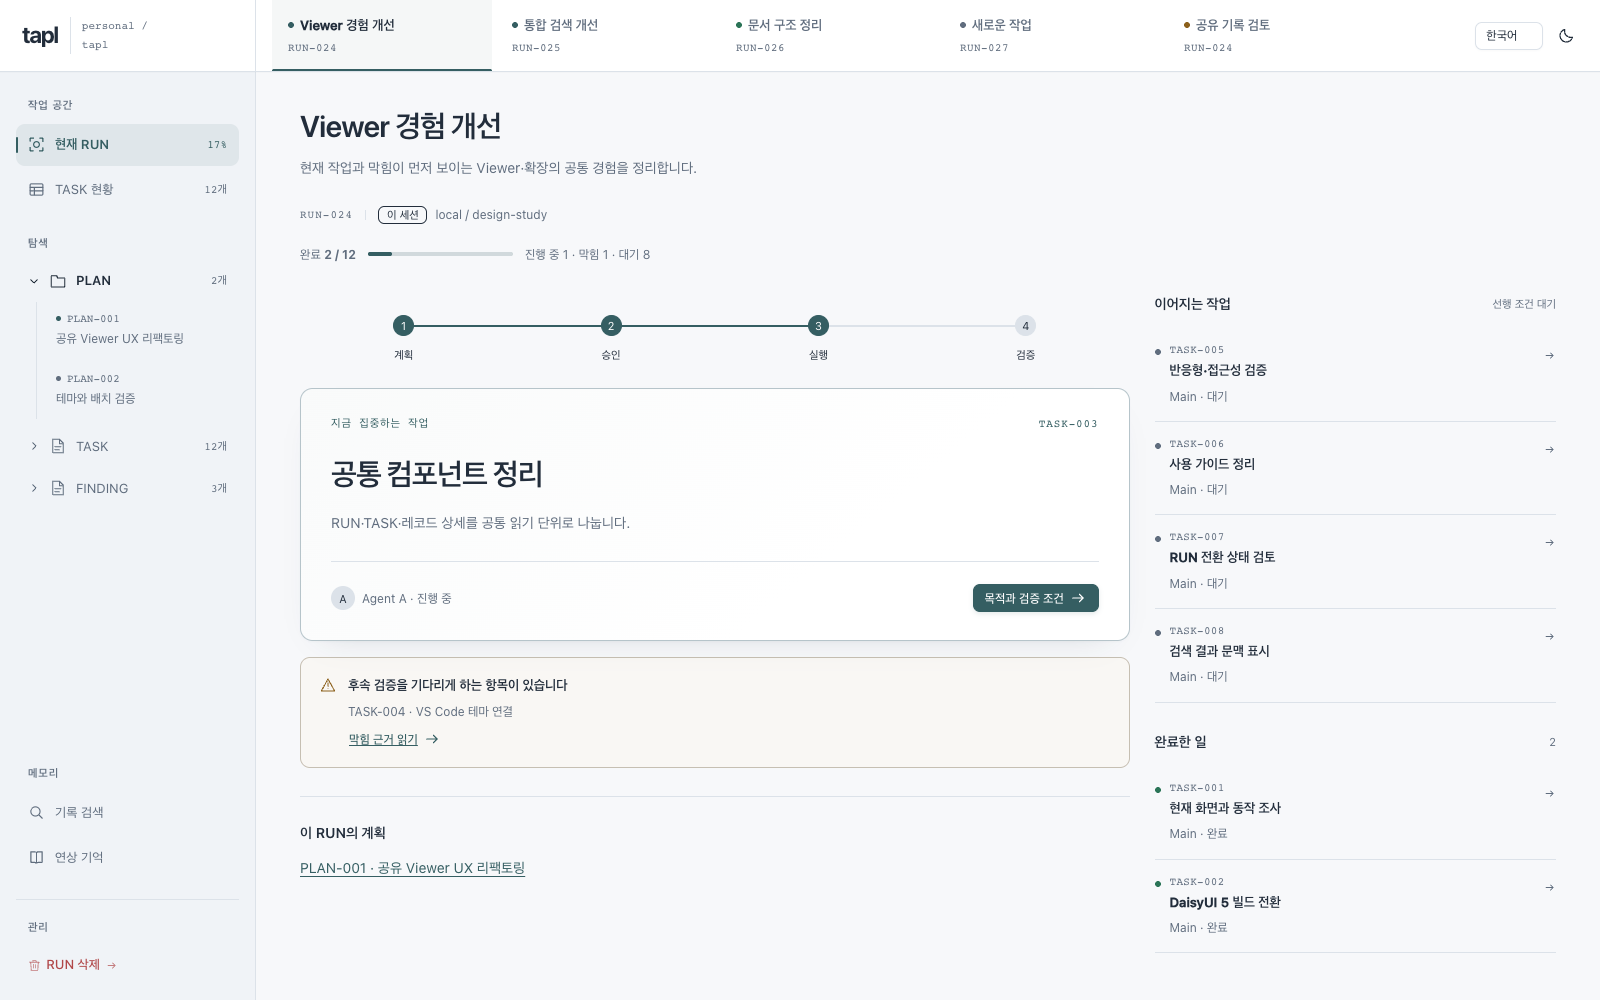
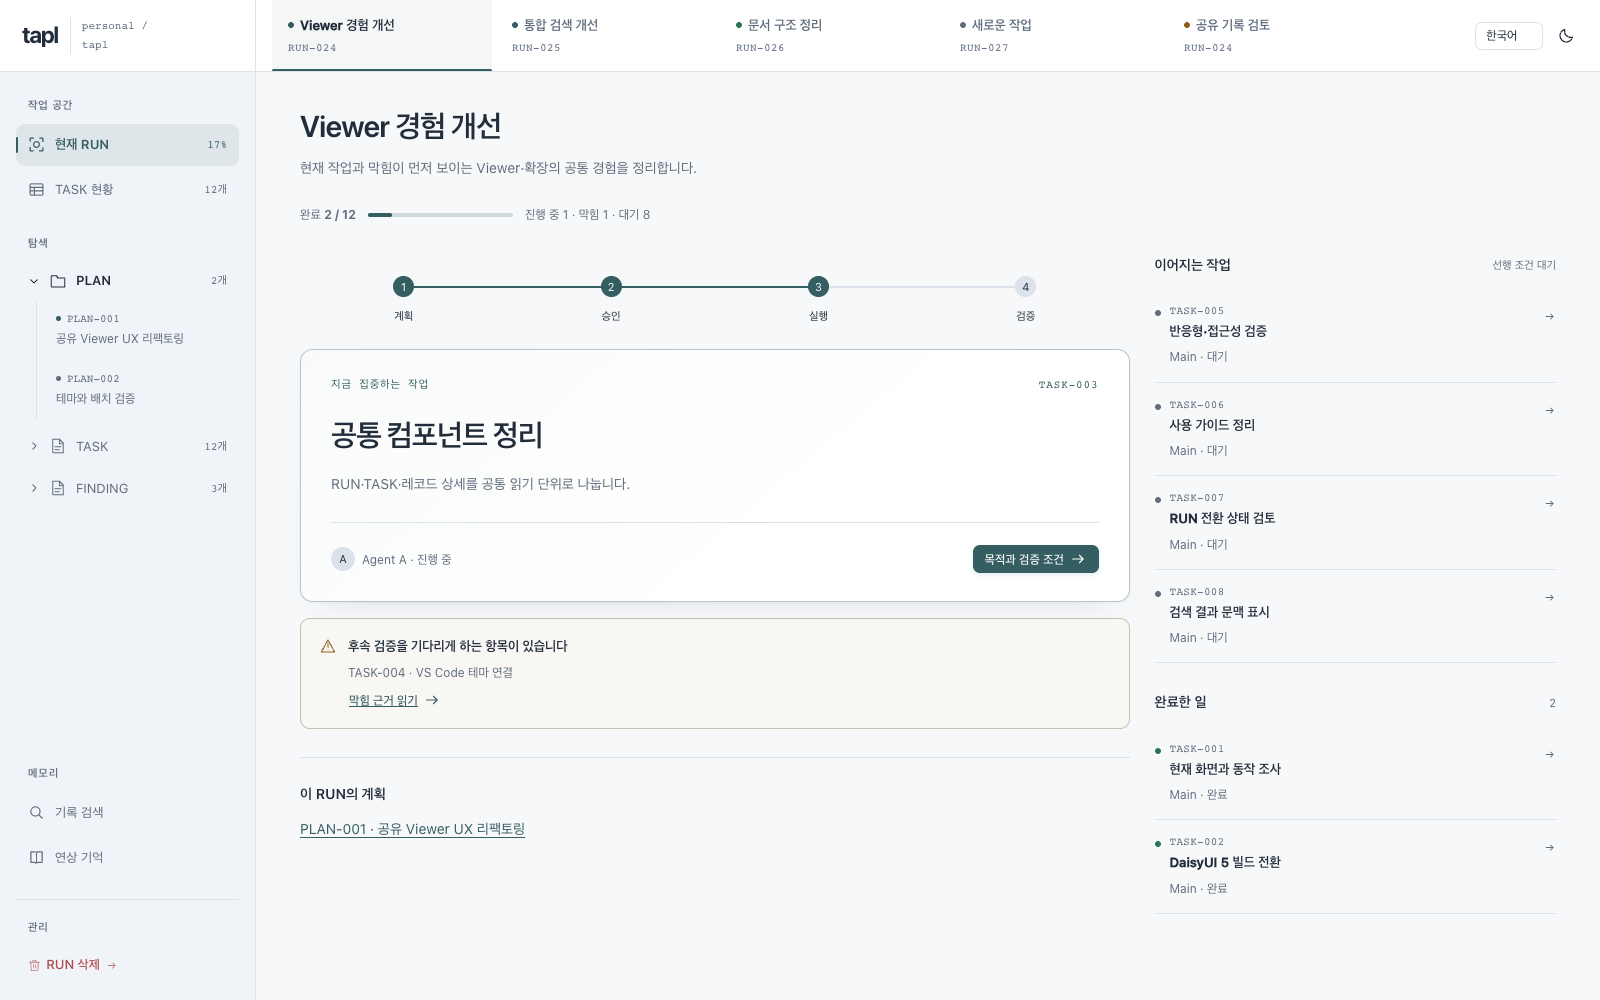
Remove repeated RUN context from viewer page headers

diff --git a/docs/design/viewer-workbench/workbench.js b/docs/design/viewer-workbench/workbench.js
@@ -594,10 +594,6 @@ function counts() {
     pending: all.filter((x) => x.status === "pending").length,
   };
 }
-function context() {
-  const run = currentRun();
-  return `<div class="run-context"><span class="eyebrow">${run.id}</span><span class="context-separator"></span>${chip(t(run.owner), "badge-outline")}<span class="micro muted">${esc(run.source)}</span></div>`;
-}
 function backButton() {
   return navigationTrail.length
     ? `<button class="btn btn-sm page-back" id="page-back" type="button">${icon("back")}<span>${t("back")}</span></button>`
@@ -643,7 +639,7 @@ function currentPage() {
     body = `${blocker()}${empty("noActive", "noActiveHelp", "info", `<button class="btn btn-sm" type="button" data-page="tasks">${t("showTasks")}</button>`)}`;
   else
     body = `<div class="run-overview"><section><ul class="steps phase-steps" aria-label="${t("progress")}">${["planStep", "approvalStep", "executionStep", "verificationStep"].map((key, i) => `<li class="step ${i < 3 ? "step-primary" : ""}">${t(key)}</li>`).join("")}</ul><article class="card focus-surface"><div class="eyebrow"><span>${t("currentFocus")}</span><span>${active.id}</span></div><h2>${esc(tr(active.title))}</h2><p>${esc(tr(active.goal))}</p><div class="focus-footer"><span class="focus-owner"><span class="owner-mark">A</span>${esc(tr(active.owner))} · ${t(active.status)}</span><button class="btn btn-primary btn-sm" type="button" data-record="${active.uid}">${t("taskDetail")} ${icon("arrow")}</button></div></article>${blocker()}<div class="details-grid">${sectionTitle(t("planSummary"))}${plan ? recButton(plan, `${plan.id} · ${esc(tr(plan.title))}`) : ""}</div></section><aside class="run-aside"><section class="run-aside-section">${sectionTitle(t("upNext"), t("waitsFor"))}${taskQueue(items.filter((x) => x.status === "pending").slice(0, 4))}</section><section class="run-aside-section">${sectionTitle(t("recentDone"), `${counts().done}`)}${taskQueue(items.filter((x) => x.status === "done").slice(0, 3))}</section></aside></div>`;
-  return `${pageHeader(tr(run.title), tr(run.description))}${context()}${items.length ? meter() : ""}${body}`;
+  return `${pageHeader(tr(run.title), tr(run.description))}${items.length ? meter() : ""}${body}`;
 }
 function filteredTasks() {
   const v = view();
@@ -658,7 +654,7 @@ function filteredTasks() {
 function tasksPage() {
   const v = view(),
     items = filteredTasks();
-  return `${pageHeader()}${context()}${meter()}<div class="filter-toolbar"><div class="status-filter join" role="group" aria-label="${t("status")}">${["all", "running", "blocked", "pending", "done"].map((key) => `<button class="btn btn-xs join-item ${v.filter === key ? "btn-primary" : "btn-ghost"}" type="button" data-filter="${key}" aria-pressed="${v.filter === key}">${t(key)}</button>`).join("")}</div><form class="task-search" data-form="tasks"><label><span class="sr-only">${t("taskSearch")}</span><input class="input input-sm" name="query" aria-label="${t("taskSearch")}" value="${esc(v.taskQuery)}" placeholder="${t("taskSearch")}"></label><button class="btn btn-sm" type="submit" data-focus="search-submit">${t("search")}</button></form></div>${items.length ? `<div class="tasks-layout"><section><table class="table tasks-table"><caption class="sr-only">${t("tasks")} · ${currentRun().id}</caption><thead><tr><th scope="col"><span class="sr-only">${t("status")}</span></th><th scope="col">${t("taskColumn")}</th><th scope="col">${t("owner")}</th><th scope="col">${t("status")}</th></tr></thead><tbody>${items.map((r) => `<tr><td>${statusMark(r.status, false)}</td><td><button class="task-title-button" type="button" data-record="${r.uid}"><strong>${esc(tr(r.title))}</strong><span class="queue-code">${r.id}</span></button></td><td>${esc(tr(r.owner))}</td><td>${statusMark(r.status)}</td></tr>`).join("")}</tbody></table></section></div>` : empty(taskRecords().length ? "noMatches" : "noTasks", taskRecords().length ? "noMatchesHelp" : "noTasksHelp", "inbox", taskRecords().length ? `<button class="btn btn-sm" type="button" data-reset="tasks">${t("reset")}</button>` : "")}`;
+  return `${pageHeader()}${meter()}<div class="filter-toolbar"><div class="status-filter join" role="group" aria-label="${t("status")}">${["all", "running", "blocked", "pending", "done"].map((key) => `<button class="btn btn-xs join-item ${v.filter === key ? "btn-primary" : "btn-ghost"}" type="button" data-filter="${key}" aria-pressed="${v.filter === key}">${t(key)}</button>`).join("")}</div><form class="task-search" data-form="tasks"><label><span class="sr-only">${t("taskSearch")}</span><input class="input input-sm" name="query" aria-label="${t("taskSearch")}" value="${esc(v.taskQuery)}" placeholder="${t("taskSearch")}"></label><button class="btn btn-sm" type="submit" data-focus="search-submit">${t("search")}</button></form></div>${items.length ? `<div class="tasks-layout"><section><table class="table tasks-table"><caption class="sr-only">${t("tasks")} · ${currentRun().id}</caption><thead><tr><th scope="col"><span class="sr-only">${t("status")}</span></th><th scope="col">${t("taskColumn")}</th><th scope="col">${t("owner")}</th><th scope="col">${t("status")}</th></tr></thead><tbody>${items.map((r) => `<tr><td>${statusMark(r.status, false)}</td><td><button class="task-title-button" type="button" data-record="${r.uid}"><strong>${esc(tr(r.title))}</strong><span class="queue-code">${r.id}</span></button></td><td>${esc(tr(r.owner))}</td><td>${statusMark(r.status)}</td></tr>`).join("")}</tbody></table></section></div>` : empty(taskRecords().length ? "noMatches" : "noTasks", taskRecords().length ? "noMatchesHelp" : "noTasksHelp", "inbox", taskRecords().length ? `<button class="btn btn-sm" type="button" data-reset="tasks">${t("reset")}</button>` : "")}`;
 }
 function resultText(r) {
   return r.status === "done"
@@ -727,7 +723,7 @@ function recordPage() {
       "Verify record context and keyboard focus across RUN changes and refreshes.",
     ),
   ];
-  return `<article class="record-page"><header class="record-hero"><div class="record-heading-row"><div class="record-heading-copy">${context()}<div class="run-context">${chip(r.kind, "badge-outline")}<span class="eyebrow">${r.id}</span>${statusMark(r.status)}</div><h1>${esc(tr(r.title))}</h1><div class="record-meta"><span>${t("owner")}: ${esc(tr(r.owner))}</span><span>·</span><span>2026-11-10</span></div></div>${backButton()}</div></header><div class="reading-grid"><div class="reading-body"><section class="reading-section"><h2>${t("objective")}</h2><p>${esc(tr(r.goal))}</p></section><section class="reading-section"><h2>${r.kind === "PLAN" ? t("requirements") : t("result")}</h2><p>${r.kind === "PLAN" ? esc(tr(run.description)) : resultText(r)}</p></section><section class="reading-section"><h2>${t("verification")}</h2><ul>${checks.map((c) => `<li class="checkline">${icon("check")}<span>${esc(tr(c))}</span></li>`).join("")}</ul></section><section class="reading-section"><h2>${t("depends")}</h2><p>${
+  return `<article class="record-page"><header class="record-hero"><div class="record-heading-row"><div class="record-heading-copy"><div class="record-context">${chip(r.kind, "badge-outline")}<span class="eyebrow">${r.id}</span>${statusMark(r.status)}</div><h1>${esc(tr(r.title))}</h1><div class="record-meta"><span>${t("owner")}: ${esc(tr(r.owner))}</span><span>·</span><span>2026-11-10</span></div></div>${backButton()}</div></header><div class="reading-grid"><div class="reading-body"><section class="reading-section"><h2>${t("objective")}</h2><p>${esc(tr(r.goal))}</p></section><section class="reading-section"><h2>${r.kind === "PLAN" ? t("requirements") : t("result")}</h2><p>${r.kind === "PLAN" ? esc(tr(run.description)) : resultText(r)}</p></section><section class="reading-section"><h2>${t("verification")}</h2><ul>${checks.map((c) => `<li class="checkline">${icon("check")}<span>${esc(tr(c))}</span></li>`).join("")}</ul></section><section class="reading-section"><h2>${t("depends")}</h2><p>${
     r.depends.length
       ? r.depends
           .map((id) => {

diff --git a/docs/design/viewer-workbench/workbench.css b/docs/design/viewer-workbench/workbench.css
@@ -622,20 +622,15 @@ select {
   margin-top: 8px;
   max-width: 760px;
 }
-.run-context {
+.record-context {
   display: flex;
   align-items: center;
   gap: 8px;
   flex-wrap: wrap;
   margin-bottom: 16px;
 }
-.run-context .eyebrow {
+.record-context .eyebrow {
   letter-spacing: 1px;
-}
-.context-separator {
-  height: 10px;
-  border-left: 1px solid var(--color-base-300);
-  margin: 0 4px;
 }
 .run-meter {
   display: flex;
@@ -982,7 +977,7 @@ select {
   padding-bottom: 25px;
   border-bottom: 1px solid var(--color-base-300);
 }
-.record-hero .run-context {
+.record-hero .record-context {
   margin-bottom: 12px;
 }
 .record-hero h1 {
@@ -1892,11 +1887,8 @@ select {
   .run-aside-section {
     margin-bottom: 25px;
   }
-  .run-context .eyebrow {
+  .record-context .eyebrow {
     font-size: 11px;
-  }
-  .context-separator {
-    margin: 0;
   }
   .run-meter {
     gap: 9px;

diff --git a/docs/development/viewer-ux-design.ko.md b/docs/development/viewer-ux-design.ko.md
@@ -26,7 +26,7 @@ TASK 현황과 PLAN·TASK·FINDING 탭의 개수는 한국어 `12개`, 영어 `1
 
 한국어·영어 UI, 상태·안내·접근성 레이블과 예시 내용을 전환할 수 있으며 밝음·어두움도 지원합니다. 언어 전환은 실제 저장된 레코드의 자동 번역을 뜻하지 않습니다. 실제 제품의 locale 전달·기존 번역 키·사용자 작성 내용과 분리해 구현해야 합니다. 링크의 `#run=local24&page=tasks&lang=en&theme=dark`처럼 화면 문맥을 지정해 열 수도 있습니다.
 
-화면에는 제목·상태·기록 내용·필요한 출처를 남기고 공통 소개, 데모 배지, 반복 푸터와 중복 문맥을 표시하지 않습니다. RUN별 검색은 그룹 헤더에 출처를 모으고 레코드별 보기에서는 각 결과에 표시합니다. 빈 상태 안내와 폐기 확인·영향 설명은 필요한 위치에 유지합니다.
+화면에는 제목·상태·기록 내용·필요한 출처를 남기고 공통 소개, 데모 배지, 반복 푸터와 중복 문맥을 표시하지 않습니다. 선택한 RUN은 상단 탭에서 확인하며 현재 RUN·TASK 현황·Explore 상세의 본문 상단에는 RUN ID·세션·출처 행을 반복하지 않습니다. RUN별 검색은 그룹 헤더에 출처를 모으고 레코드별 보기에서는 각 결과에 표시합니다. 빈 상태 안내와 폐기 확인·영향 설명은 필요한 위치에 유지합니다.
 
 밝은 테마는 차가운 회색·흰색 표면과 짙은 청록색 강조를, 어두운 테마는 남색 표면과 옅은 청록색 강조를 사용합니다. 본문·보조 글자와 행간을 키우고 얇은 구분선·절제된 그림자로 계층을 구분합니다. RUN 선택선과 본문은 260ms, 폴드와 검색 그룹은 180–240ms로 전환하며 빠른 연속 조작은 진행 중 모션을 정리합니다. `prefers-reduced-motion`에서는 모션을 생략하고, 테마 색상은 즉시 교체합니다.
 

diff --git a/docs/development/viewer-ux-design.md b/docs/development/viewer-ux-design.md
@@ -26,7 +26,7 @@ Grouped search across all records shows RUN titles, provenance and match counts 
 
 Switch Korean/English UI, status, guidance, accessible labels and sample content, as well as light/dark themes. Locale switching does not promise automatic translation of stored records. Product implementation must retain locale delivery, existing translation keys and user-authored content as separate concerns. Links can specify context, for example `#run=local24&page=tasks&lang=en&theme=dark`.
 
-Screens retain titles, status, record content and necessary provenance while omitting generic introductions, demo badges, repeated footers and duplicate context. Grouped search places provenance in group headers; record-list presentation shows it per result. Empty-state help and discard confirmation/effect descriptions remain where needed.
+Screens retain titles, status, record content and necessary provenance while omitting generic introductions, demo badges, repeated footers and duplicate context. The selected RUN is identified by the top tabs; Current RUN, TASK status and Explore detail headers omit repeated RUN ID, session and source rows. Grouped search places provenance in group headers; record-list presentation shows it per result. Empty-state help and discard confirmation/effect descriptions remain where needed.
 
 The light theme combines cool gray and white surfaces with a deep teal accent; the dark theme uses navy surfaces and a pale teal accent. Larger body and secondary text, increased line height, thin dividers and restrained shadows establish hierarchy. The RUN indicator and page transition take 260ms; folds and search groups take 180–240ms. Rapid input settles interrupted motion. `prefers-reduced-motion` removes motion, and theme colors switch immediately.
 
